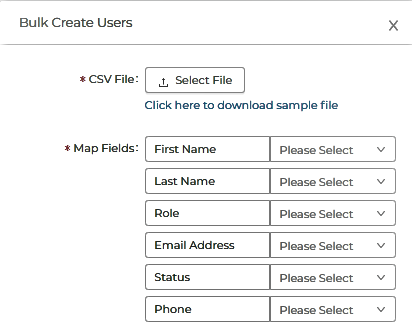
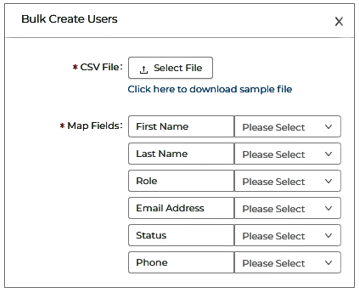
update images

Changed region(s): [[0.0, 0.0, 1.0, 0.9863], [0.1838, 0.1849, 0.8273, 0.339]]

diff --git a/docs/extending-productivity/manage-users.md b/docs/extending-productivity/manage-users.md
@@ -30,15 +30,11 @@ nav_order: 5
 In the left pane of the Dashboard window, click Admin Console. If you do not see Admin Console, you may not have the right admin permissions; please contact your tech admin.
 1. Click Permissions > User.
 2. Click the Create User button.
-
 -![Create User]({{site.baseurl}}/assets/images/add-a-user.png "Create User")
-
-
-
 3. Enter the required information.
-      * The user's name, email and role.
-      * The email address must be valid.
-      * Select the user roles. User roles determine which sections a user has access to and which tasks they can perform.
+    * The user's name, email and role.
+    * The email address must be valid.
+    * Select the user roles. User roles determine which sections a user has access to and which tasks they can perform.
 5. Click Create.
 
 The new user receives an email that includes a link to the web application, username and password.
@@ -49,11 +45,7 @@ The new user receives an email that includes a link to the web application, user
 In the left pane of the Dashboard window, click Admin Console. If you do not see Admin Console, you may not have the right admin permissions; please contact your tech admin.
 1. Click the Bulk Create User button.
 2. Click Select File, and upload the CSV.
-
 -![Bulk Create User]({{site.baseurl}}/assets/images/add-multiple-users.png "Bulk Create User")
-
-
-
 3. Map the CSV fields. Click on the Disclosure drop-down arrow.
   * In the 'CSV Header Row' column, find the field which contains your users' first names — select 'First Name' from the drop-down list in the 'Mapping' column.
   * In the 'CSV Header Row' column, find the field which contains your users' last names — select 'Last Name' from the drop-down list in the 'Mapping' column.
@@ -70,6 +62,7 @@ In the left pane of the Dashboard window, click Admin Console. If you do not see
 1. Click Permissions > User.
 2. To select user(s), check the box to the left of the username.
 3. After selecting the user(s), click the Bulk Edit button.
+-![Bulk Create User]({{site.baseurl}}/assets/images/edit-multiple-users.png "Bulk Multiple Users")
 4. Update the user's information.
 5. Once you're done, click the Update All button.
 
